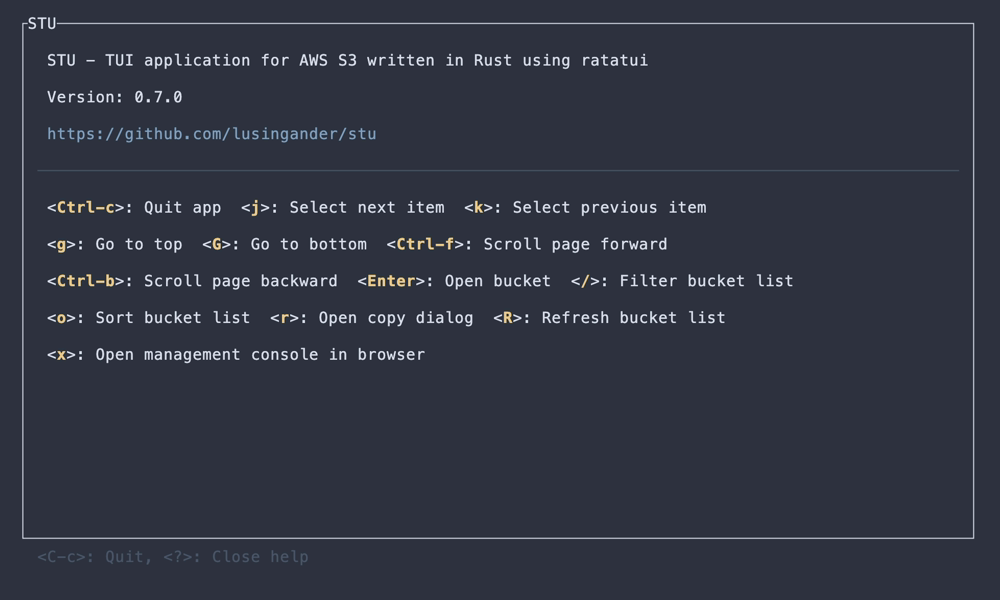
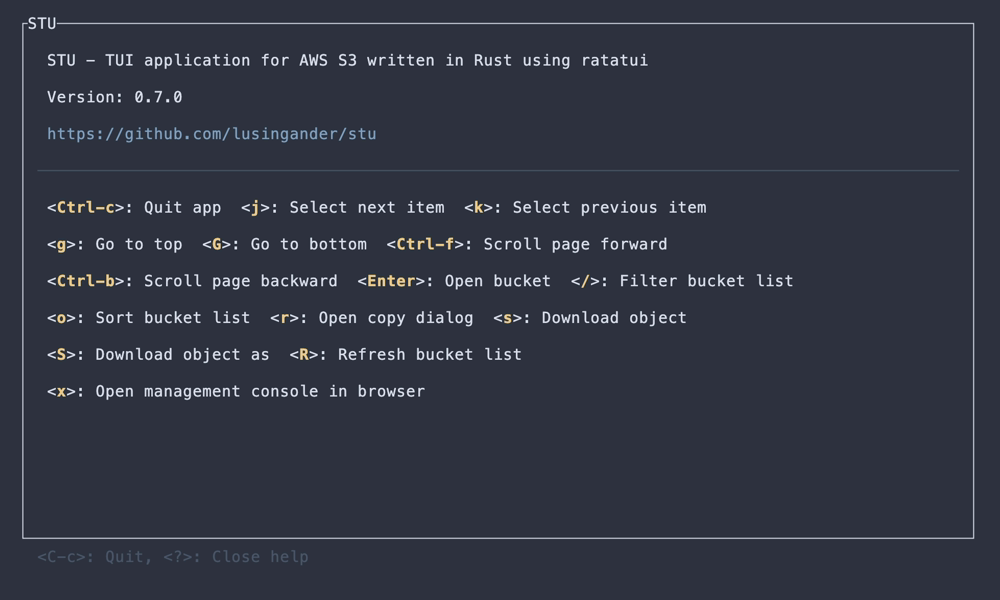
Update screenshots and README

diff --git a/README.md b/README.md
@@ -232,9 +232,11 @@ https://www.sublimetext.com/docs/syntax.html
 
 - Show list of buckets
   - filter/sort items
+- Download object
+  - Recursive download of selected buckets
 - Copy resource name to clipboard
 
-<img src="./img/bucket-list.png" width=400> <img src="./img/bucket-list-filter.png" width=400> <img src="./img/bucket-list-sort.png" width=400> <img src="./img/bucket-list-copy.png" width=400>
+<img src="./img/bucket-list.png" width=400> <img src="./img/bucket-list-filter.png" width=400> <img src="./img/bucket-list-sort.png" width=400> <img src="./img/bucket-list-copy.png" width=400> <img src="./img/bucket-list-download-confirm.png" width=400>
 
 ### Object list
 
